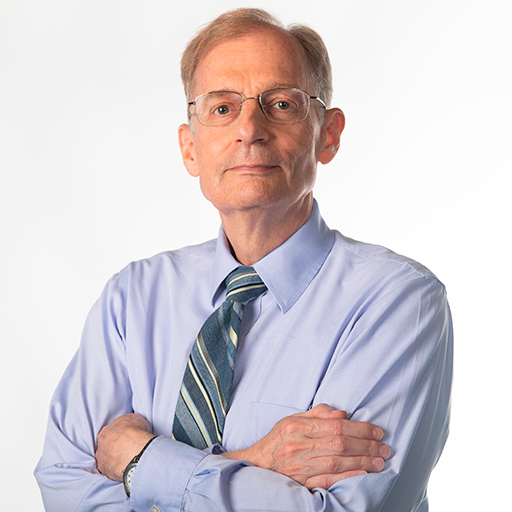
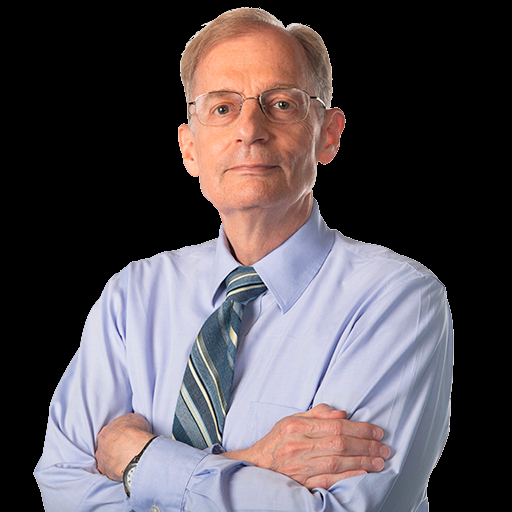
.

diff --git a/indoor.cpp b/indoor.cpp
@@ -20,6 +20,9 @@
 #include "objects.h"
 #include "stb_image.h"
 #include "camera.h"
+#include <string>
+
+GLuint textureIdList[5];
 
 void init(){
     glEnable(GL_LIGHTING);
@@ -28,10 +31,16 @@ void init(){
     glutMouseFunc(trackballMouseFunction);
     glutMotionFunc(trackballMotionFunction);
 
+    const int numOfTextures(5);
     int imgWidth, imgHeight, bytesPerPixel;
-    unsigned char* imgdata(stbi_load("floor.jpg", &imgWidth, &imgHeight, &bytesPerPixel, 0));
-    glTexImage2D(GL_TEXTURE_2D, 0, GL_RGB, imgWidth, imgHeight, 0, GL_RGB, GL_UNSIGNED_BYTE, imgdata);
-    glTexParameteri(GL_TEXTURE_2D, GL_TEXTURE_MIN_FILTER, GL_LINEAR);
+    std::string textureNames[] = {"floor.jpg", "wood.jpg", "plastic.jpg", "metal.jpg", "DrCrawley.jpg"};
+    glGenTextures(numOfTextures, textureIdList);   
+    for(int i(0); i < numOfTextures; ++i){
+        glBindTexture(GL_TEXTURE_2D, textureIdList[i]);
+        unsigned char* imgdata(stbi_load(textureNames[i].c_str(), &imgWidth, &imgHeight, &bytesPerPixel, 0));
+        glTexImage2D(GL_TEXTURE_2D, 0, GL_RGB, imgWidth, imgHeight, 0, GL_RGB, GL_UNSIGNED_BYTE, imgdata);
+        glTexParameteri(GL_TEXTURE_2D, GL_TEXTURE_MIN_FILTER, GL_LINEAR);
+    }
 }
 
 void display(){
@@ -49,17 +58,32 @@ void display(){
     glMaterialfv(GL_FRONT, GL_AMBIENT, colors[0]);
     glMateriali(GL_FRONT, GL_SHININESS, 15);
     
-    double texels[][2] = {{-1, 1}, {-1, -1},
-                          {1, -1}, {1, 1}};
+    double texels[][2] = {{0, 1}, {0, 0},
+                          {1, 0}, {1, 1}};
     
+    //floor
+    glBindTexture(GL_TEXTURE_2D, textureIdList[0]);
     glPushMatrix();
-    glTranslatef(-1.0f, -1.0f, -1.0f);
-    wall(2.0f, 2.0f, texels);
+        glTranslatef(-1.0f, -1.0f, -1.0f);
+        wall(2.0f, 2.0f, texels);
     glPopMatrix();
 
-    cube();
-    //glGenTextures(int texture coutn, int* array);
-    //glBindTexture(GL_TEXTURE_2D, textid);
+    glBindTexture(GL_TEXTURE_2D, textureIdList[1]);
+    //table
+    glPushMatrix();
+        glTranslatef(-0.5f, -0.72f, -0.8f);
+        glScalef(1.0f, 1.0f, 0.8f);
+        table(texels);
+    glPopMatrix();
+
+    glBindTexture(GL_TEXTURE_2D, textureIdList[4]);
+    //professor
+    glPushMatrix();
+        glTranslatef(-0.15f, 0.0f, -0.8f);
+        glRotatef(90, 1.0f, 0.0f, 0.0f);
+        wall(0.4f, 0.6f, texels);
+    glPopMatrix();
+    
     glFlush();
 }
 

diff --git a/objects.cpp b/objects.cpp
@@ -110,4 +110,23 @@ void cylinder(const int sides){
     }
     glEnd();
 }
+
+void table(double texels[4][2]){
+    glPushMatrix();
+            glScalef(1.0f, 0.05f, 0.6f);
+            cube(1, texels);
+        glPopMatrix();
+        glPushMatrix();
+            glScalef(1.0f, 2.7f, 1.0f);
+            glTranslatef(0.0f, -0.1f, 0.0f);
+            cube(0.1, texels);
+            glTranslatef(0.0f, 0.0f, 0.5f);
+            cube(0.1, texels);
+            glTranslatef(0.9f, 0.0f, 0.0f);
+            cube(0.1, texels);
+            glTranslatef(0.0f, 0.0f, -0.5f);
+            cube(0.1, texels);
+        glPopMatrix();
+}
+
 #endif

diff --git a/objects.h b/objects.h
@@ -31,4 +31,16 @@ shape will be rendered with.
 */
 void cylinder(const int);
 
+/*
+Renders a table with texture using a given array of
+texels.
+*/
+void table(double (*)[2]);
+
+/*
+Renders a chair with texture using a given array of
+texels.
+*/
+void chair(double (*)[2]);
+
 #endif

diff --git a/README.md b/README.md
@@ -1,3 +1,3 @@
 # Computer Graphics Scene
 --- 
-This renders an indoor scene of Dr.Crawley teaching computer graphics. 
+This renders an indoor scene of Dr.Crawley teaching computer graphics. Also forgive the fact I used your likeness in this project.
